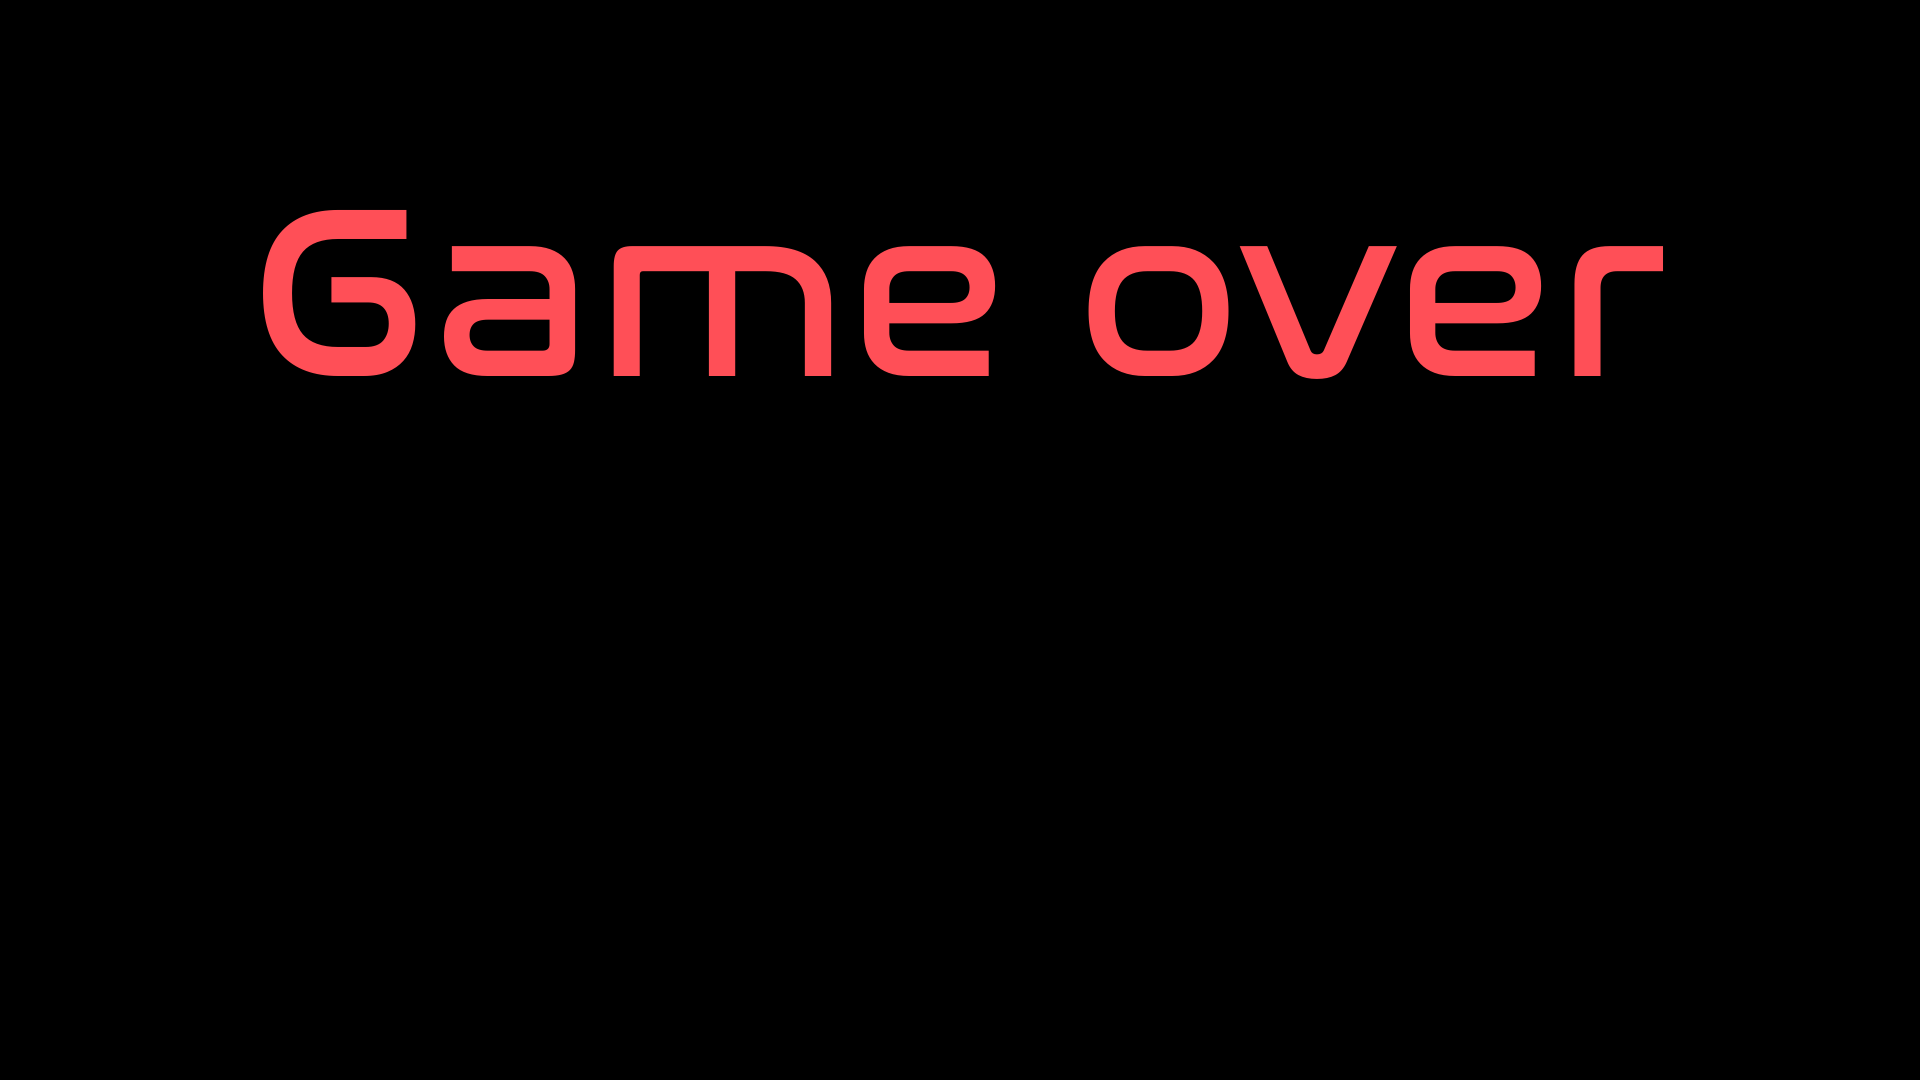
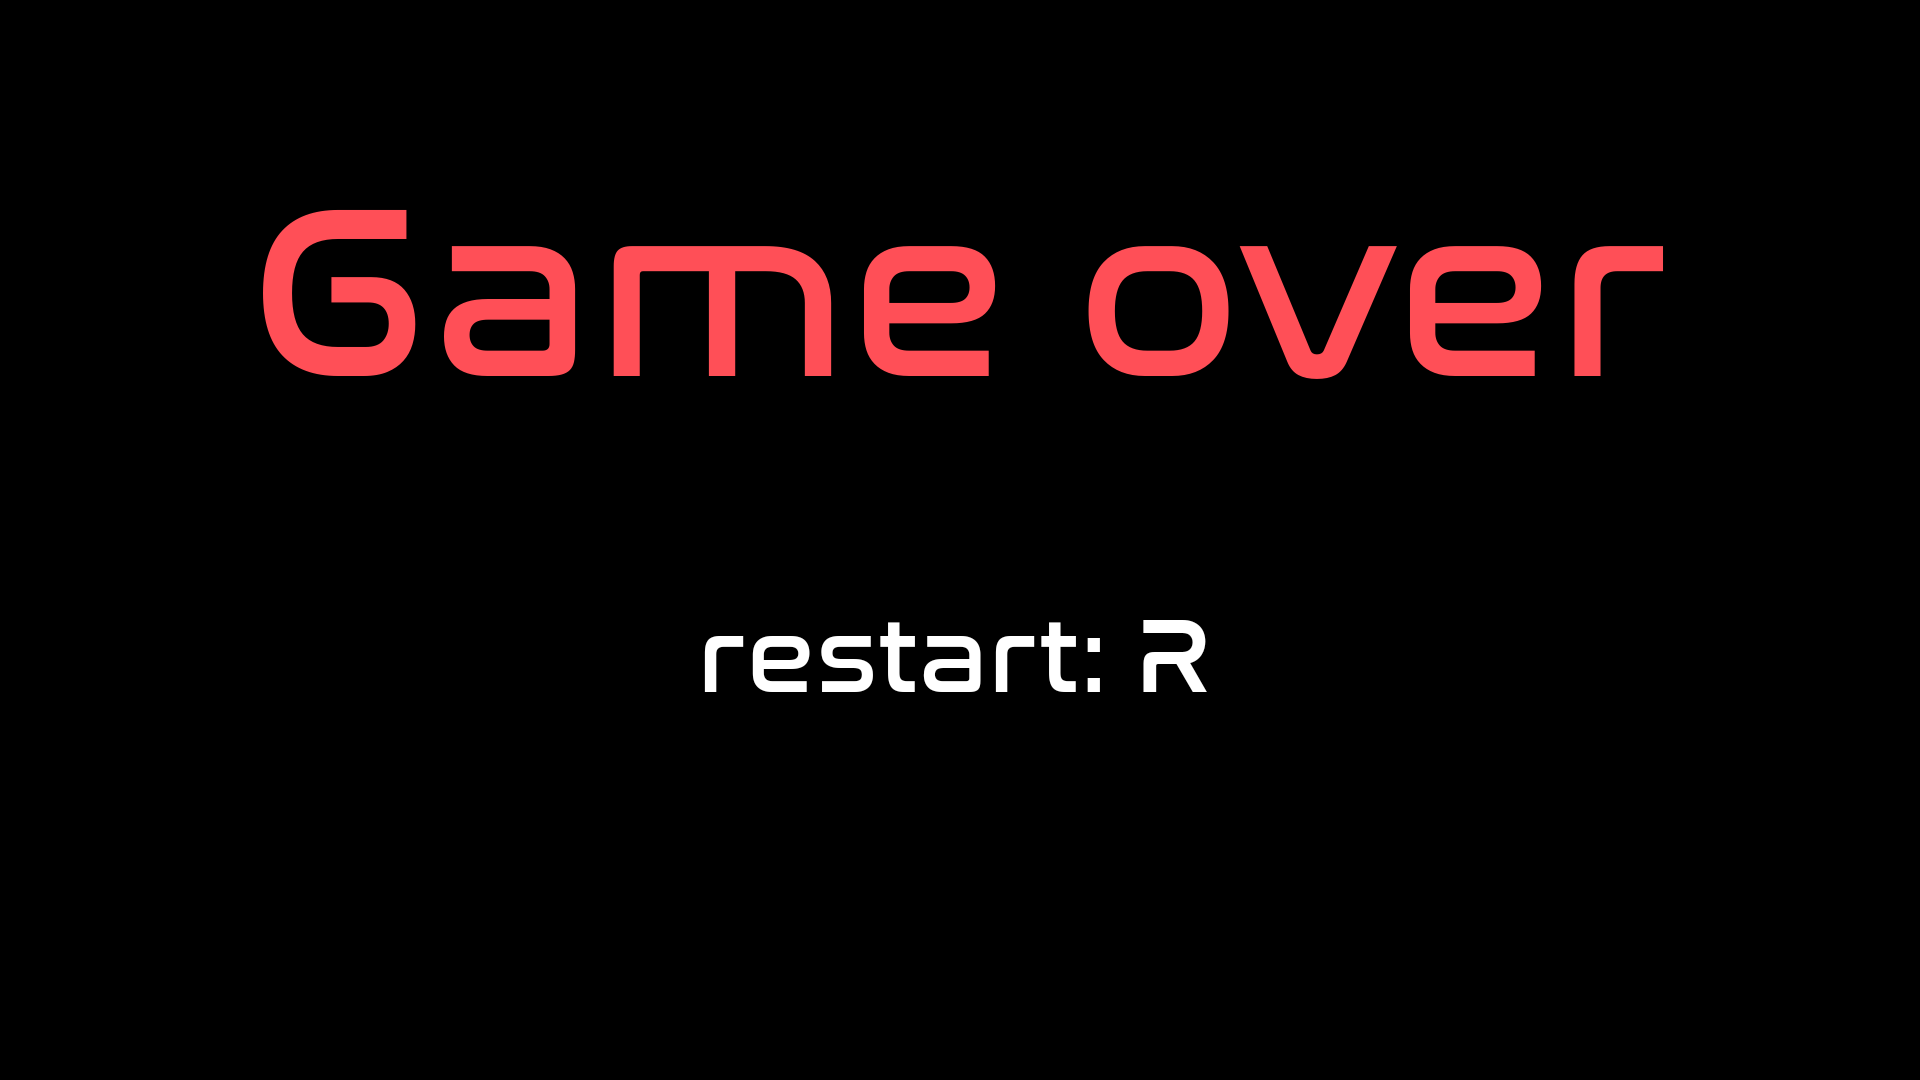
Add files via upload

Changed region(s): [[0.3438, 0.5806, 0.5625, 0.6417], [0.5938, 0.55, 0.625, 0.6417]]

diff --git a/game.h b/game.h
@@ -47,7 +47,10 @@ private:
 						}
 					}
 					for (auto& b : bombSprites) {
-						b->setDel();
+						sf::FloatRect bombHitBox = b->getHitBox();
+						if (playerHitBox.intersects(bombHitBox)) {
+							b->setDel();
+						}
 					}
 			}
 				for (auto& b : bombSprites) {
@@ -59,13 +62,39 @@ private:
 				bombSprites.remove_if([](Bomb* bonus) {return bonus->offScreen(); });
 				bombSprites.remove_if([](Bomb* bonus) {return bonus->isToDel(); });
 	}
+	void restart() {
+		if (sf::Keyboard::isKeyPressed(sf::Keyboard::R)) {
+			start = false;
+			for (auto& e : enemySpritesR) {
+				e->setStartSpeed();
+				e->spawn();
+			}
+			for (auto& e : enemySpritesG) {
+				e->setStartSpeed();
+				e->spawn();
+			}
+			score = 0;
+			HP = 100;
+		}
+	}
 	void spawnBomb() {
 		for (auto& e : enemySpritesG) {
-			if (e->getPosition().x == WINDOW_WIDTH / 2) {
-				Bomb* bomb = new Bomb(e->getPosition());
-				bombSprites.push_back(bomb);
-				e->changeSide();
+			int side = e->getSide();
+			if (side == 0) {
+				if (e->getPosition().x >= WINDOW_WIDTH / 2) {
+					Bomb* bomb = new Bomb(e->getPosition());
+					bombSprites.push_back(bomb);
+					e->changeSide();
 
+				}
+			}
+			else if (side == 1) {
+				if (e->getPosition().x <= WINDOW_WIDTH / 2) {
+					Bomb* bomb = new Bomb(e->getPosition());
+					bombSprites.push_back(bomb);
+					e->changeSide();
+
+				}
 			}
 		}
 	}
@@ -74,7 +103,8 @@ private:
 		sf::Sprite gameOver;
 		sf::Texture tex;
 		tex.loadFromFile("images\\gameOver_screen.png");
-		gameOver.setTexture(tex);	
+		gameOver.setTexture(tex);
+		restart();
 		window.clear();
 			window.draw(gameOver);
 		}
@@ -82,7 +112,10 @@ private:
 	void gameStart() {
 		if (!start) {
 			if (sf::Mouse::isButtonPressed(sf::Mouse::Middle)) { HP = 10; }
-			if (sf::Mouse::isButtonPressed(sf::Mouse::Right)) {start = 1;}
+			if (sf::Mouse::isButtonPressed(sf::Mouse::Right)) {
+				start = 1;
+				score = 0;
+			}
 			sf::Sprite gameStart;
 			sf::Texture tex;
 			tex.loadFromFile("images\\start_screen.png");
@@ -91,7 +124,6 @@ private:
 			window.draw(gameStart);
 		}
 	}
-
 
 	void update() {
 		spawnBomb();

diff --git a/enemyGreen.h b/enemyGreen.h
@@ -5,8 +5,8 @@
 class EnemyGreen : public GameObj {
 private:
 	float speedx;
-	int speedRange1 = 6;
-	int speedRange2 = 3;
+	int speedRange1 = GREEN_START_SPEED_1;
+	int speedRange2 = GREEN_START_SPEED_2;
 	sf::Clock timer;
 	int side;
 
@@ -29,7 +29,7 @@ public:
 	}*/
 
 	void spawn() {
-		int side = rand() % 2;
+		side = rand() % 2;
 		if (side == 0) {
 			speedx = rand() % speedRange1 + speedRange2;
 			float y = (rand() % (int)(WINDOW_HEIGHT));
@@ -73,4 +73,9 @@ public:
 	}
 
 	int getSide() { return side; }
+
+	void setStartSpeed() {
+		speedRange1 = GREEN_START_SPEED_1;
+		speedRange2 = GREEN_START_SPEED_2;
+	}
 };

diff --git a/settings.h b/settings.h
@@ -19,6 +19,11 @@ const float DOWN_DEAD_ZONE = WINDOW_HEIGHT - ENEMY_HEIGHT;
 const int SPEED_INCREACE_CD = 10;
 const float BOMB_POINT = WINDOW_WIDTH - (WINDOW_WIDTH / 2);
 
+const float RED_START_SPEED_1 = 3;
+const float RED_START_SPEED_2 = 1;
+const float GREEN_START_SPEED_1 = 5;
+const float GREEN_START_SPEED_2 = 2;
+
 const int CHAR_SIZE = 32;
 const float TEXT_OFFSET = 60.f;
 const sf::Vector2f SCORETEXT_START_POS{ WINDOW_WIDTH / 2,0.f };

diff --git a/enemyRed.h b/enemyRed.h
@@ -5,8 +5,8 @@
 class EnemyRed : public GameObj{
 private:
 	float speedx, speedy;
-	int speedRange1 = 3;
-	int speedRange2 = 1;
+	int speedRange1 = RED_START_SPEED_1;
+	int speedRange2 = RED_START_SPEED_2;
 	sf::Clock timer;
 
 public:
@@ -44,6 +44,11 @@ public:
 
 	void draw(sf::RenderWindow& window) {
 		window.draw(sprite);
+	}
+
+	void setStartSpeed() {
+		speedRange1 = RED_START_SPEED_1;
+		speedRange2 = RED_START_SPEED_2;
 	}
 
 
